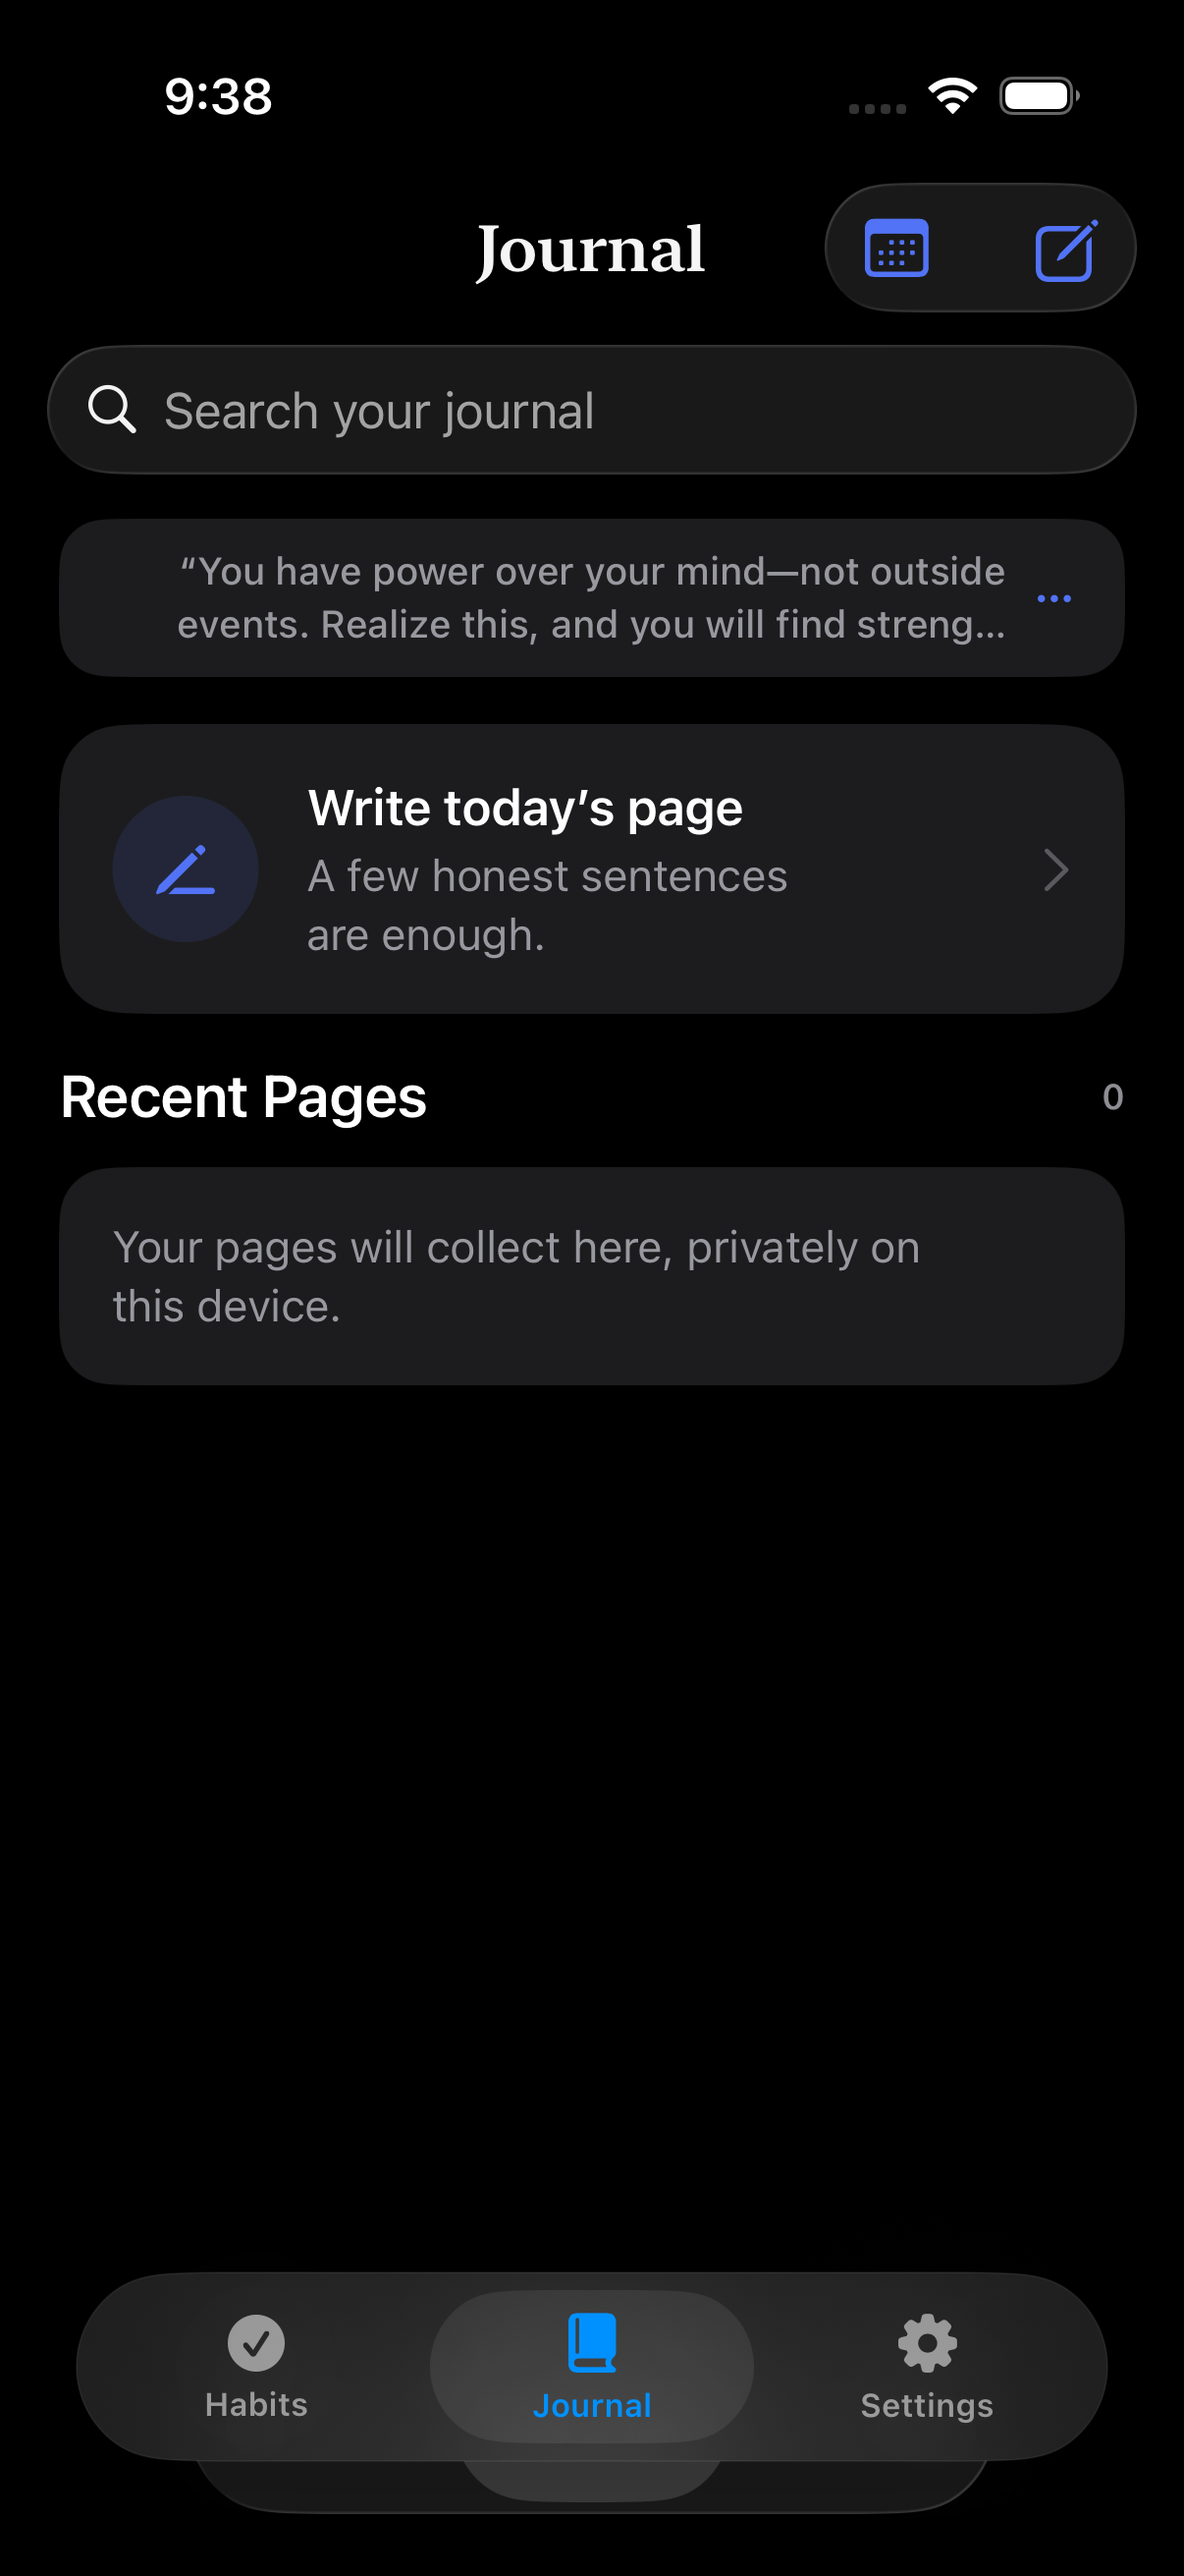
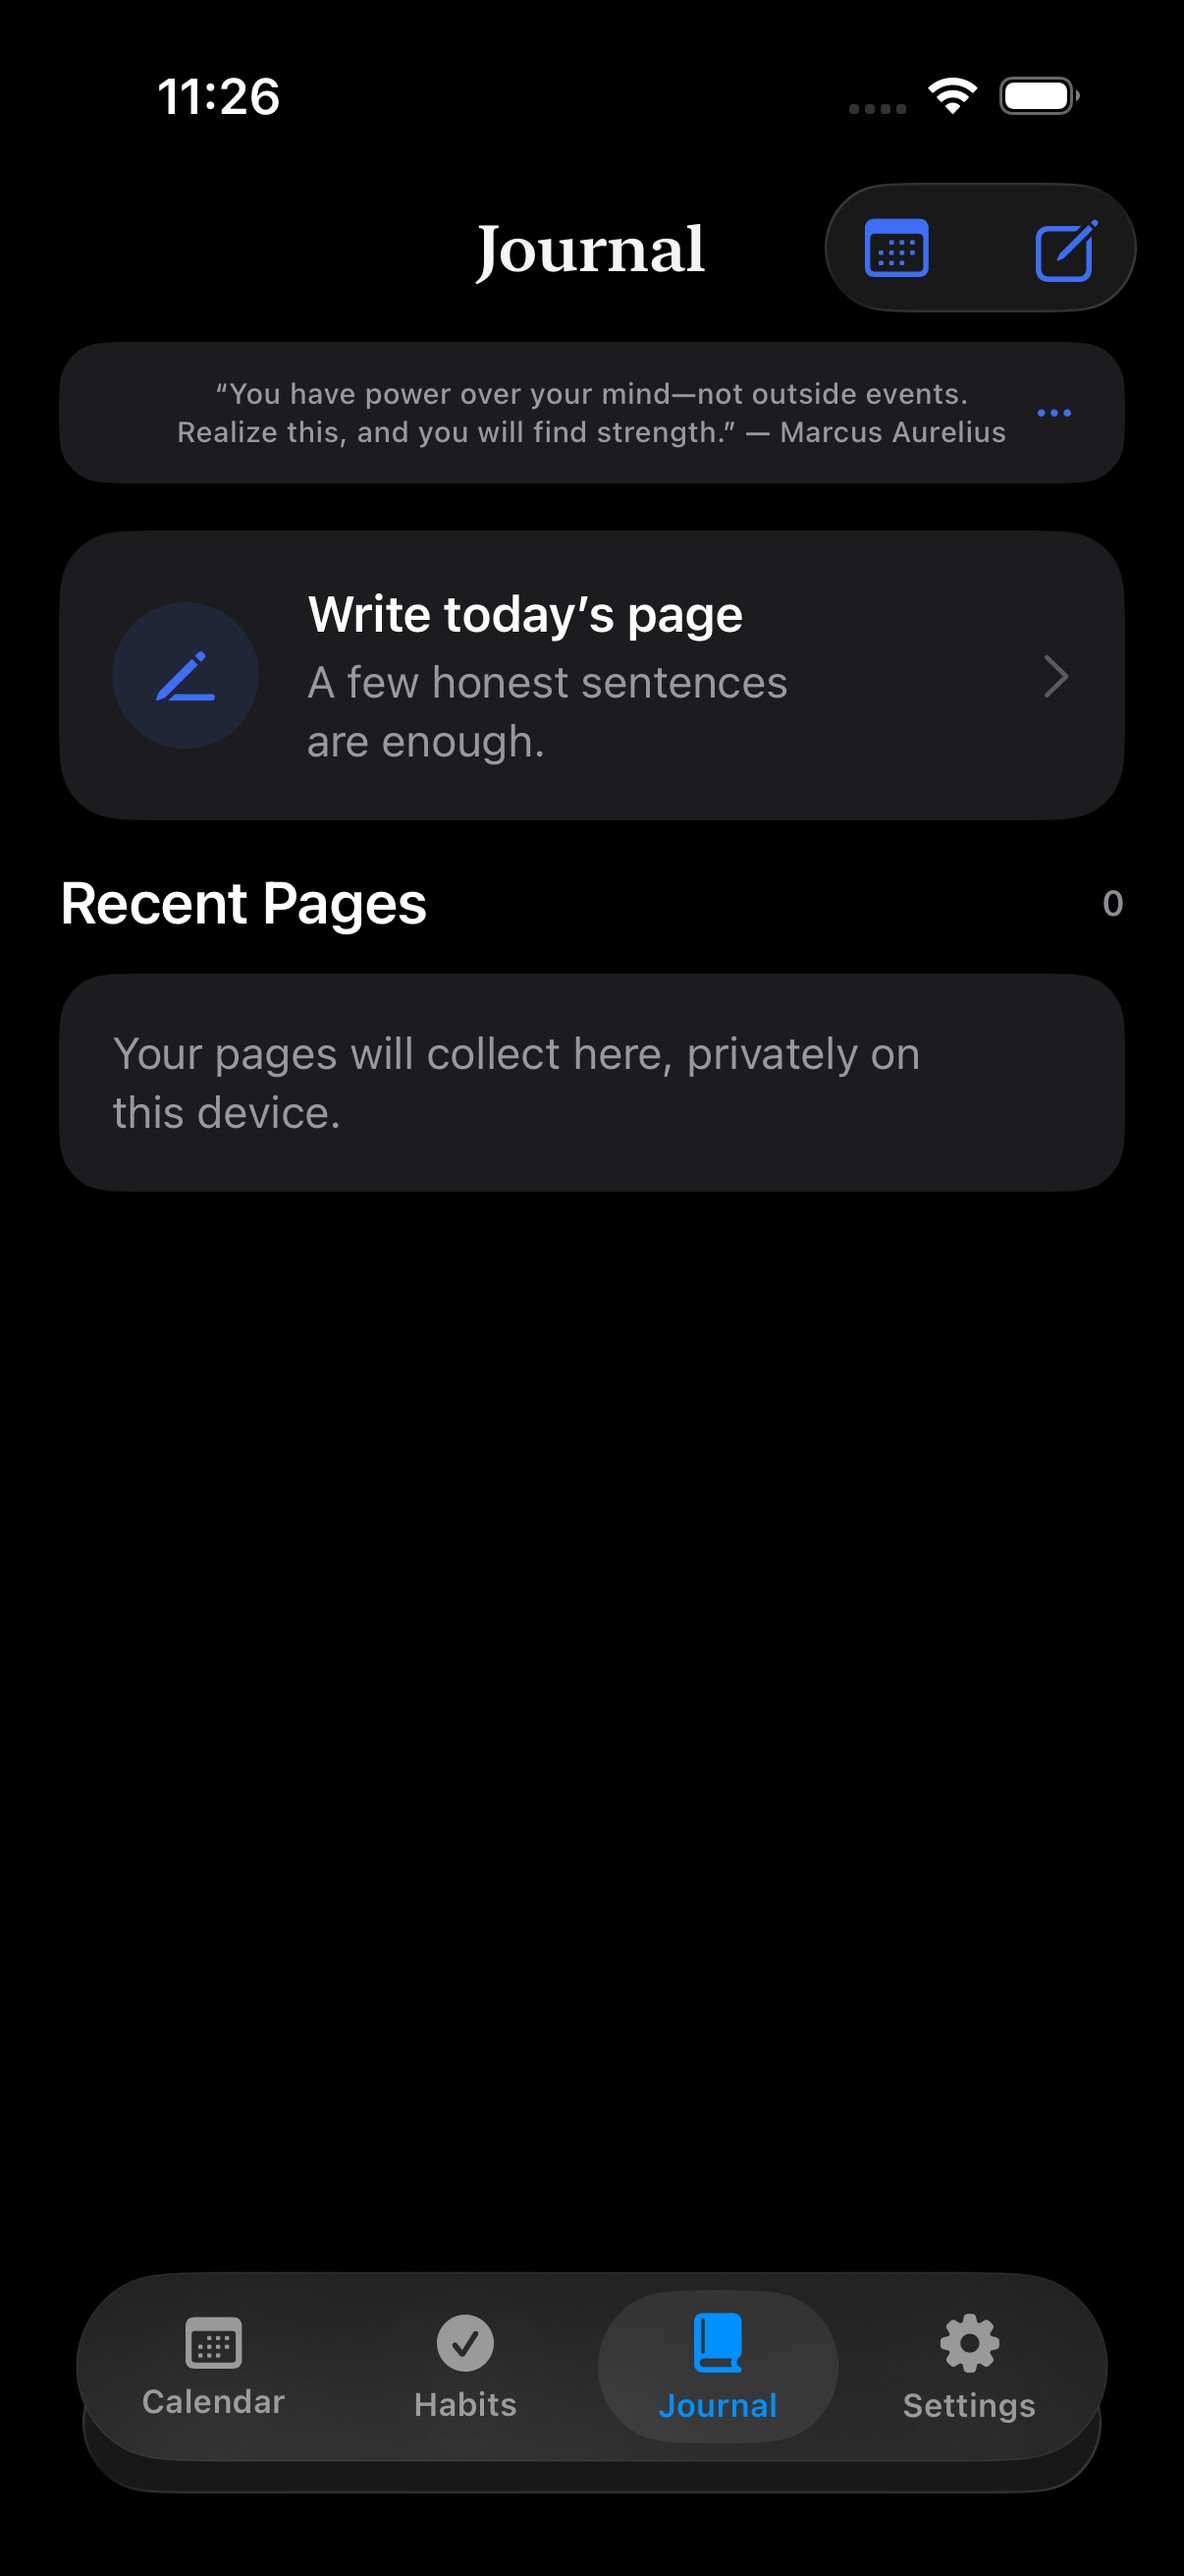
Refresh Vivere branding and product story

diff --git a/HabitTracker/README.md b/HabitTracker/README.md
@@ -5,7 +5,7 @@
 <h1 align="center">Vivere</h1>
 
 <p align="center">
-  <em>Vivere</em> — Latin for “to live.” A polished, completely free, local-first companion for intentional living on iPhone and Apple Watch.
+  <em>Vivere</em> — Latin for “to live.” A private, completely free companion for building habits, reflecting daily, and understanding your progress.
 </p>
 
 <p align="center">
@@ -13,31 +13,39 @@
 </p>
 
 <p align="center">
-  <img src="Docs/Screenshots/iphone-today-dark.png" width="220" alt="Vivere Today screen in dark mode">
-  <img src="Docs/Screenshots/iphone-journal-dark.png" width="220" alt="Vivere private Journal screen">
-  <img src="Docs/Screenshots/iphone-settings-dark.png" width="220" alt="Vivere modular Settings screen">
+  <img src="Docs/Screenshots/iphone-today-dark.png" width="190" alt="Vivere Today screen in dark mode">
+  <img src="Docs/Screenshots/iphone-calendar-dark.png" width="190" alt="Vivere activity calendar and daily detail">
+  <img src="Docs/Screenshots/iphone-journal-wins-dark.png" width="190" alt="Vivere Journal with spiritual, mental, and physical wins plus gratitude">
+  <img src="Docs/Screenshots/iphone-settings-dark.png" width="190" alt="Vivere modular Settings and color themes">
+</p>
+
+<p align="center">
+  <img src="Docs/Screenshots/iphone-year-dark.png" width="190" alt="Vivere annual activity heatmap">
   <img src="Docs/Screenshots/watch-today.png" width="170" alt="Vivere Apple Watch companion">
 </p>
 
 ## Built to stay simple—and grow when you need it
 
-Vivere opens to a calm Today screen with one-tap completion. Optional capabilities live behind switches in Settings, so a new user gets a focused tracker while an advanced user can enable schedules, measurable goals, programs, insights, journaling, reminders, and review tools without installing another app.
+Vivere opens to a calm Today screen with one-tap completion. A four-tab floating dock keeps Calendar, Habits, Journal, and Settings close without crowding the interface. Every premium-style module is available and enabled by default, while Settings lets each person simplify the app or grow it into a more advanced system.
 
 ### Everyday experience
 
 - Fast one-tap check-ins with subtle haptics and restrained animation
 - Daily, selected-weekday, and flexible weekly schedules
 - Check-in, count, duration, and avoidance goals
-- Schedule-aware streaks, adherence, history, and calendar detail
+- Schedule-aware streaks, adherence, history, and day-by-day calendar detail
+- Monthly activity intensity plus an interactive annual heatmap across years
+- Daily drill-down showing completed habits with a direct link to that day’s Journal
 - Reordering, pausing, archiving, notes, preferred time, and reminders
-- Full light, dark, system, and six accent-color themes
+- Full light, dark, and system appearance with seven contrast-aware accent themes
 - Dynamic Type, VoiceOver labels, Reduce Motion support, and adaptable layouts
 
 ### Premium-style tools, still free
 
 - Customizable program gallery, including 75-Day Hard Reset and 125-Day Lock In
 - Difficulty levels and editable habits before starting any preset
-- Private daily Journal with search, calendar, prompts, and optional photos
+- Private daily Journal centered on Spiritual, Mental, and Physical wins
+- Gratitude, optional Notes, mood, search, calendar, prompts, and photos
 - Compact daily motivation with categories, favorites, and sharing
 - Quote rotation that uses every enabled quote before repeating
 - Insights and optional weekly reviews
@@ -50,7 +58,13 @@ Vivere opens to a calm Today screen with one-tap completion. Optional capabiliti
 
 The iPhone is the single source of truth. Habits, completions, configuration, and journal entries are stored in Core Data on the device. The Watch receives a compact cached snapshot and sends idempotent completion requests through WatchConnectivity; it never opens or migrates the iPhone database.
 
-The project includes lightweight migration from the original V1 store through the current V3 model, plus readable JSON backup and merge-based restore. Existing data is preserved whenever the model can be safely opened.
+The project includes lightweight migration from the original V1 store through the current V4 model, plus readable JSON backup and merge-based restore. Existing data is preserved whenever the model can be safely opened.
+
+## Privacy
+
+Vivere has no account system, advertising identifier, analytics SDK, telemetry client, hosted database, or AI/bot connection. Habit and Journal content stays in the app’s local Core Data store. The optional widget uses an Apple App Group on the same device, and the Watch companion exchanges only a compact habit snapshot and completion requests through Apple’s WatchConnectivity framework.
+
+Backups leave the app only when the user explicitly exports one through the system document picker. Journal photos are selected explicitly and stored with the local entry. See [PRIVACY.md](PRIVACY.md) for the complete plain-language policy.
 
 ## Apple frameworks only
 

diff --git a/HabitTracker/PRIVACY.md b/HabitTracker/PRIVACY.md
@@ -1,0 +1,31 @@
+# Vivere Privacy
+
+Last updated: August 2, 2026
+
+Vivere is designed to work without an account or remote service.
+
+## Data collection
+
+Vivere does not collect, sell, rent, transmit, or use personal data for advertising or tracking. The app contains no analytics SDK, advertising SDK, telemetry client, hosted database, or AI/bot integration.
+
+## Data stored on your devices
+
+Habits, completions, settings, and Journal entries are stored locally using Apple’s Core Data framework. Photos are added only when you choose one and are stored with the local Journal entry.
+
+If you enable the optional widget, Vivere places a compact snapshot in an Apple App Group container on the same device. If you install the Apple Watch companion, the iPhone and Watch exchange habit snapshots and completion requests through Apple’s WatchConnectivity framework.
+
+## Backups and sharing
+
+Vivere exports a backup only when you request one. You choose its destination using Apple’s system document picker. Quote sharing also occurs only when you invoke the system share sheet and choose a destination.
+
+## Notifications and permissions
+
+Reminders are scheduled locally through Apple’s notification framework. Photo access is requested through Apple’s system photo picker only when you choose to attach a photo. Vivere does not request location, contacts, microphone, health, advertising, or cross-app tracking access.
+
+## Data deletion
+
+You can delete individual habits and Journal entries in the app. Removing Vivere from a device deletes its local app data, subject to any device backups you control.
+
+## Contact
+
+A dedicated support contact will be added before public App Store distribution. No personal email address is embedded in the app or this policy.
